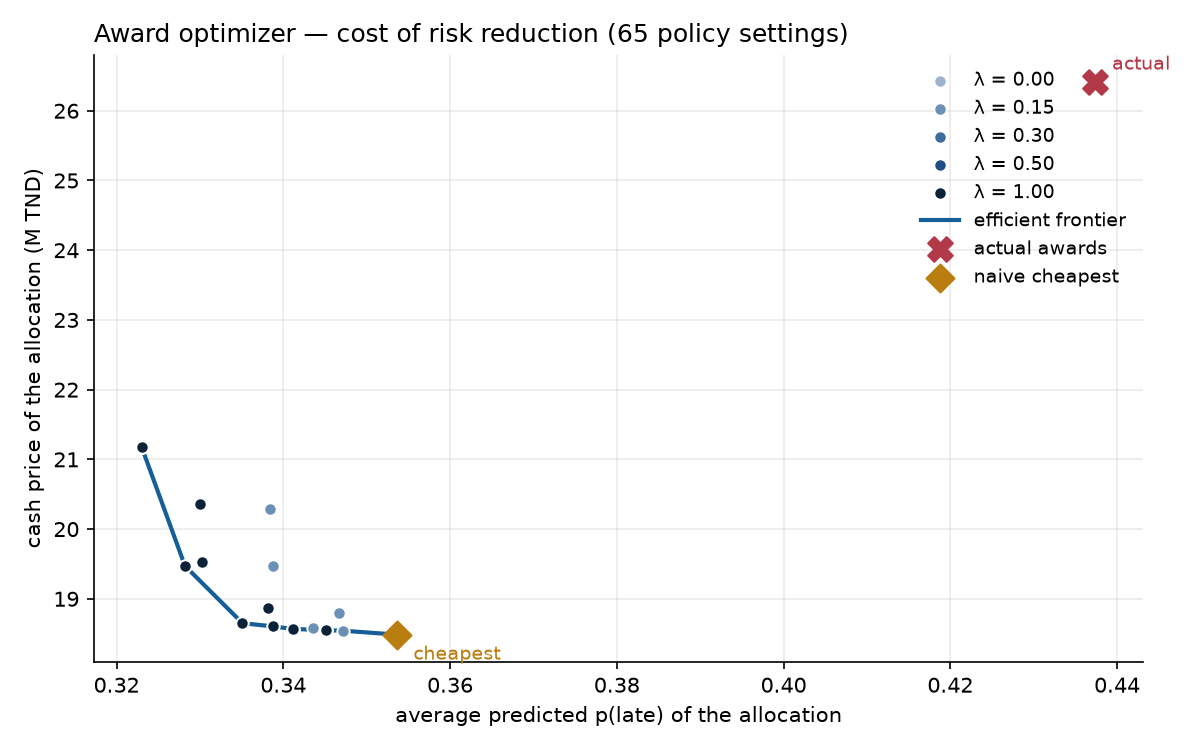
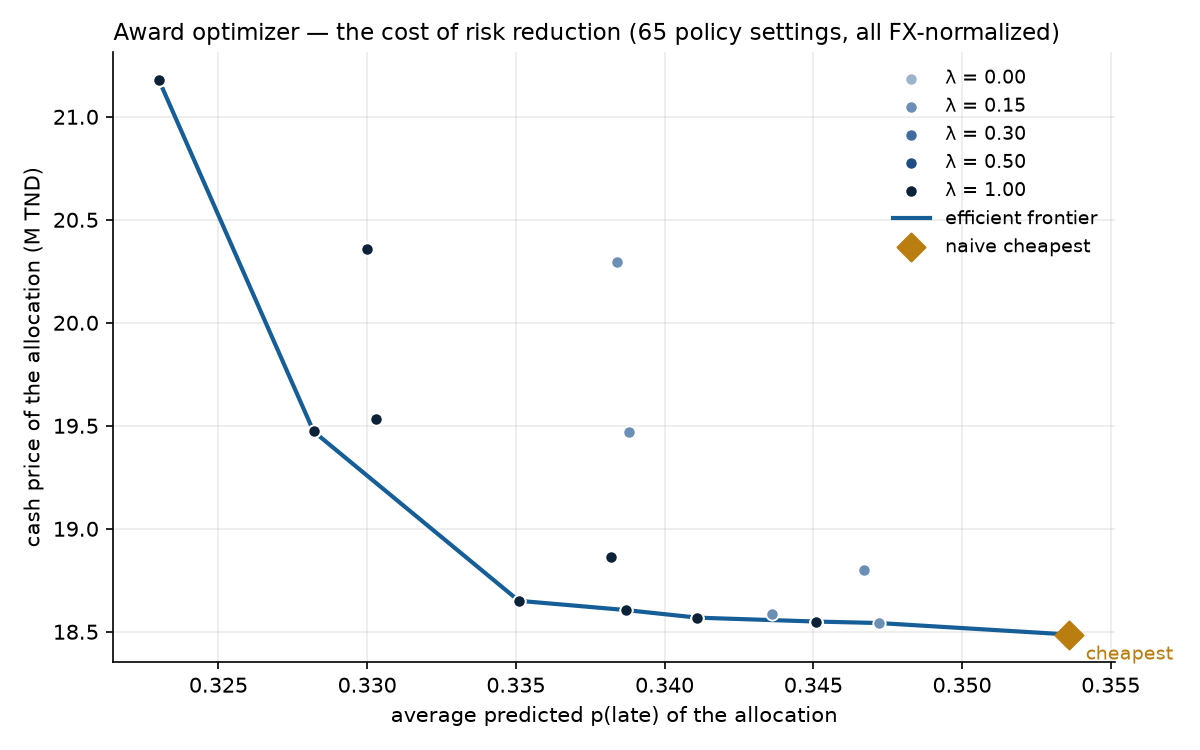
feat(eval): frontier divergence audit — actual-vs-optimizer gap attributed to generator nominal currency comparison (127 tests)

diff --git a/backend/scripts/eval_optimizer.py b/backend/scripts/eval_optimizer.py
@@ -64,6 +64,48 @@ def sweep(lambdas: tuple[float, ...] = LAMBDAS,
     return rows
 
 
+_DIVERGENCE_SQL = """
+WITH bids AS (
+  SELECT r.rfq_id, r.rfq_ref, q.quotation_id, q.supplier_id, q.quoted_total AS nominal,
+         q.currency, q.quoted_total*f.rate_to_tnd AS tnd
+  FROM erp.rfqs r JOIN erp.supplier_quotations q USING (rfq_id)
+  JOIN erp.fx_rates f ON f.currency=q.currency
+  JOIN erp.suppliers s ON s.supplier_id=q.supplier_id
+  WHERE s.is_active AND q.tbe_score>=70
+    AND EXISTS (SELECT 1 FROM erp.purchase_orders po
+                WHERE po.rfq_id=r.rfq_id AND po.order_date>=%(since)s)),
+actual AS (SELECT b.* FROM bids b JOIN erp.purchase_orders po
+           ON po.rfq_id=b.rfq_id AND po.supplier_id=b.supplier_id
+           WHERE po.order_date>=%(since)s),
+cheapest AS (SELECT DISTINCT ON (rfq_id) * FROM bids ORDER BY rfq_id, tnd)
+SELECT a.rfq_ref, a.currency AS actual_ccy, a.nominal AS actual_nominal, a.tnd AS actual_tnd,
+       c.currency AS cheapest_ccy, c.nominal AS cheapest_nominal, c.tnd AS cheapest_tnd,
+       a.tnd - c.tnd AS overpaid_tnd,
+       (a.nominal < c.nominal AND a.currency <> c.currency) AS nominal_illusion
+FROM actual a JOIN cheapest c USING (rfq_id)
+WHERE a.quotation_id <> c.quotation_id
+  AND (SELECT count(*) FROM bids b2 WHERE b2.rfq_id=a.rfq_id) >= 2
+ORDER BY overpaid_tnd DESC
+"""
+
+
+def divergence_audit(since: str = "2026-01-01") -> list[dict[str, Any]]:
+    """The actual awards that differ from the cheapest bid, with the reason.
+    `nominal_illusion` flags the simulator's known flaw: it compared quoted
+    totals across currencies without converting, so a USD bid with a
+    smaller NUMBER won over a cheaper TND bid. Those divergences are an
+    artifact of the synthetic world, not evidence of optimizer superiority
+    over real buyers — who do convert currencies."""
+    import psycopg
+    from psycopg.rows import dict_row
+
+    from app.config import get_settings
+    with psycopg.connect(get_settings().app_dsn, row_factory=dict_row) as c:
+        rows = c.execute(_DIVERGENCE_SQL, {"since": since}).fetchall()
+    return [{k: (float(v) if hasattr(v, "quantize") else v) for k, v in r.items()}
+            for r in rows]
+
+
 def pareto(rows: list[dict[str, Any]]) -> list[dict[str, Any]]:
     """Points not dominated on (lower price, lower risk)."""
     pts = sorted({(r["avg_p_late"], r["price_tnd"]) for r in rows})
@@ -75,7 +117,7 @@ def pareto(rows: list[dict[str, Any]]) -> list[dict[str, Any]]:
     return front
 
 
-def write(rows: list[dict[str, Any]], out: Path) -> dict[str, Any]:
+def write(rows: list[dict[str, Any]], out: Path, with_actual: bool = False) -> dict[str, Any]:
     out.mkdir(parents=True, exist_ok=True)
     with open(out / "optimizer_sweep.csv", "w", newline="") as f:
         w = csv.DictWriter(f, fieldnames=list(rows[0].keys()))
@@ -98,6 +140,26 @@ def write(rows: list[dict[str, Any]], out: Path) -> dict[str, Any]:
         f"Risk reduction available: {ref['cheapest_avg_p_late']:.3f} → {lo['avg_p_late']:.3f} "
         f"avg p(late) for +{lo['price_tnd'] - hi['price_tnd']:,.0f} TND "
         f"(+{100 * (lo['price_tnd'] / hi['price_tnd'] - 1):.1f}% cash).", "",
+        "## Why the 'actual awards' reference is NOT a savings claim", "",
+        "Actual awards that differ from the cheapest FX-normalized bid, and why:", "",
+        "| RFQ | actual bid | cheapest bid | overpaid (TND) | nominal-currency illusion |",
+        "|---|---|---|---|---|",
+    ]
+    audit = divergence_audit()
+    art = sum(r["overpaid_tnd"] for r in audit if r["nominal_illusion"])
+    tot = sum(r["overpaid_tnd"] for r in audit)
+    for r in audit:
+        md.append(f"| {r['rfq_ref']} | {r['actual_ccy']} {r['actual_nominal']:,.0f} "
+                  f"(= {r['actual_tnd']:,.0f} TND) | {r['cheapest_ccy']} {r['cheapest_nominal']:,.0f} "
+                  f"(= {r['cheapest_tnd']:,.0f} TND) | {r['overpaid_tnd']:,.0f} | "
+                  f"{'yes' if r['nominal_illusion'] else 'no'} |")
+    md += ["",
+        f"{sum(r['nominal_illusion'] for r in audit)} of {len(audit)} divergent awards are the "
+        f"simulator's nominal-currency comparison flaw; they account for {art:,.0f} of the "
+        f"{tot:,.0f} TND gap ({100 * art / tot:.1f}%). The optimizer 'beats' the simulated "
+        "history mainly by converting currencies — which real buyers also do. The frontier "
+        "itself (all points FX-normalized) is unaffected; only the actual-vs-optimizer "
+        "distance is an artifact.", "",
         "## Ceiling anatomy (λ = 0.15)", "",
         "| ceiling | above | enforced | waived | forbidden | diverged | avg p(late) |",
         "|---|---|---|---|---|---|---|",
@@ -108,11 +170,13 @@ def write(rows: list[dict[str, Any]], out: Path) -> dict[str, Any]:
                       f"| {r['rfqs_waived']} | {r['bids_forbidden']} | {r['diverged_from_cheapest']} "
                       f"| {r['avg_p_late']:.3f} |")
     (out / "optimizer_sweep.md").write_text("\n".join(md) + "\n")
-    _plot(rows, front, out)
-    return {"points": len(rows), "frontier": front, "lowest_risk": lo, "cheapest": hi}
+    _plot(rows, front, out, with_actual=with_actual)
+    return {"points": len(rows), "frontier": front, "lowest_risk": lo, "cheapest": hi,
+            "divergence_audit": audit}
 
 
-def _plot(rows: list[dict[str, Any]], front: list[dict[str, Any]], out: Path) -> None:
+def _plot(rows: list[dict[str, Any]], front: list[dict[str, Any]], out: Path,
+          with_actual: bool = False) -> None:
     import matplotlib
     matplotlib.use("Agg")
     import matplotlib.pyplot as plt
@@ -128,17 +192,19 @@ def _plot(rows: list[dict[str, Any]], front: list[dict[str, Any]], out: Path) ->
                    label=f"λ = {lam:.2f}", zorder=3)
     ax.plot([p["avg_p_late"] for p in front], [p["price_tnd"] / 1e6 for p in front],
             color=ACTION, linewidth=2, zorder=2, label="efficient frontier")
-    ax.scatter([ref["actual_avg_p_late"]], [ref["actual_price_tnd"] / 1e6], marker="X",
-               s=140, color=DANGER, zorder=4, label="actual awards")
+    if with_actual:      # off by default: that distance is a simulator artifact (see .md)
+        ax.scatter([ref["actual_avg_p_late"]], [ref["actual_price_tnd"] / 1e6], marker="X",
+                   s=140, color=DANGER, zorder=4, label="simulated historical awards")
+        ax.annotate("simulated history", (ref["actual_avg_p_late"], ref["actual_price_tnd"] / 1e6),
+                    xytext=(-95, 6), textcoords="offset points", color=DANGER, fontsize=9)
     ax.scatter([ref["cheapest_avg_p_late"]], [ref["cheapest_price_tnd"] / 1e6], marker="D",
                s=90, color=WARN, zorder=4, label="naive cheapest")
-    ax.annotate("actual", (ref["actual_avg_p_late"], ref["actual_price_tnd"] / 1e6),
-                xytext=(8, 6), textcoords="offset points", color=DANGER, fontsize=9)
     ax.annotate("cheapest", (ref["cheapest_avg_p_late"], ref["cheapest_price_tnd"] / 1e6),
                 xytext=(8, -12), textcoords="offset points", color=WARN, fontsize=9)
     ax.set_xlabel("average predicted p(late) of the allocation")
     ax.set_ylabel("cash price of the allocation (M TND)")
-    ax.set_title("Award optimizer — cost of risk reduction (65 policy settings)", loc="left")
+    ax.set_title("Award optimizer — the cost of risk reduction (65 policy settings, all FX-normalized)",
+                 loc="left", fontsize=11)
     for sp in ("top", "right"):
         ax.spines[sp].set_visible(False)
     ax.grid(alpha=0.25)
@@ -169,9 +235,14 @@ def _plot(rows: list[dict[str, Any]], front: list[dict[str, Any]], out: Path) ->
 if __name__ == "__main__":
     ap = argparse.ArgumentParser()
     ap.add_argument("--out", default="bench_results")
+    ap.add_argument("--with-actual", action="store_true",
+                    help="also plot the simulated historical awards (artifact-inflated)")
     a = ap.parse_args()
     rows = sweep()
-    s = write(rows, Path(a.out))
+    s = write(rows, Path(a.out), with_actual=a.with_actual)
+    aud = s["divergence_audit"]
+    print(f"divergence audit: {sum(r['nominal_illusion'] for r in aud)}/{len(aud)} actual-vs-cheapest "
+          f"gaps are the simulator's nominal-currency flaw")
     print(f"{s['points']} settings solved; frontier has {len(s['frontier'])} points")
     print(f"cheapest policy: {s['cheapest']['price_tnd']:,.0f} TND @ p_late {s['cheapest']['avg_p_late']:.3f}")
     print(f"lowest-risk policy: {s['lowest_risk']['price_tnd']:,.0f} TND @ p_late {s['lowest_risk']['avg_p_late']:.3f}")

diff --git a/backend/tests/test_eval_scripts.py b/backend/tests/test_eval_scripts.py
@@ -39,3 +39,19 @@ def test_ablation_covers_ml_and_is_sane():
     assert 0 <= s["ml_risk"]["winner_change_rate"] <= 100
     assert len(s["ml_risk"]["changed_cases"]) == round(
         s["ml_risk"]["winner_change_rate"] * s["ml_risk"]["cases"] / 100)
+
+
+def test_divergence_audit_attributes_gap_to_simulator_flaw():
+    """The 'actual awards' distance on the frontier is dominated by the
+    generator's nominal-currency bid comparison — a documented world
+    artifact, not optimizer superiority. The audit must say so."""
+    from scripts.eval_optimizer import divergence_audit
+    aud = divergence_audit()
+    assert aud
+    art = sum(r["overpaid_tnd"] for r in aud if r["nominal_illusion"])
+    tot = sum(r["overpaid_tnd"] for r in aud)
+    assert art / tot > 0.9                      # the gap IS the artifact
+    for r in aud:
+        if r["nominal_illusion"]:
+            assert r["actual_ccy"] != r["cheapest_ccy"]
+            assert r["actual_nominal"] < r["cheapest_nominal"] < r["actual_tnd"]

diff --git a/backend/bench_results/optimizer_sweep.md b/backend/bench_results/optimizer_sweep.md
@@ -11,6 +11,22 @@
 
 Risk reduction available: 0.354 → 0.323 avg p(late) for +2,691,425 TND (+14.6% cash).
 
+## Why the 'actual awards' reference is NOT a savings claim
+
+Actual awards that differ from the cheapest FX-normalized bid, and why:
+
+| RFQ | actual bid | cheapest bid | overpaid (TND) | nominal-currency illusion |
+|---|---|---|---|---|
+| RFQ-2026-0004 | USD 1,867,637 (= 5,789,676 TND) | TND 2,141,049 (= 2,141,049 TND) | 3,648,627 | yes |
+| RFQ-2026-0030 | USD 1,288,098 (= 3,993,102 TND) | TND 1,579,868 (= 1,579,868 TND) | 2,413,235 | yes |
+| RFQ-2025-0051 | USD 414,966 (= 1,286,396 TND) | TND 516,399 (= 516,399 TND) | 769,996 | yes |
+| RFQ-2026-0006 | USD 340,140 (= 1,054,435 TND) | TND 415,429 (= 415,429 TND) | 639,006 | yes |
+| RFQ-2026-0029 | USD 159,971 (= 495,911 TND) | TND 212,029 (= 212,029 TND) | 283,882 | yes |
+| RFQ-2025-0065 | USD 76,733 (= 237,873 TND) | TND 84,845 (= 84,845 TND) | 153,028 | yes |
+| RFQ-2026-0009 | EUR 48,303 (= 164,229 TND) | USD 47,741 (= 147,996 TND) | 16,233 | no |
+
+6 of 7 divergent awards are the simulator's nominal-currency comparison flaw; they account for 7,907,774 of the 7,924,007 TND gap (99.8%). The optimizer 'beats' the simulated history mainly by converting currencies — which real buyers also do. The frontier itself (all points FX-normalized) is unaffected; only the actual-vs-optimizer distance is an artifact.
+
 ## Ceiling anatomy (λ = 0.15)
 
 | ceiling | above | enforced | waived | forbidden | diverged | avg p(late) |
